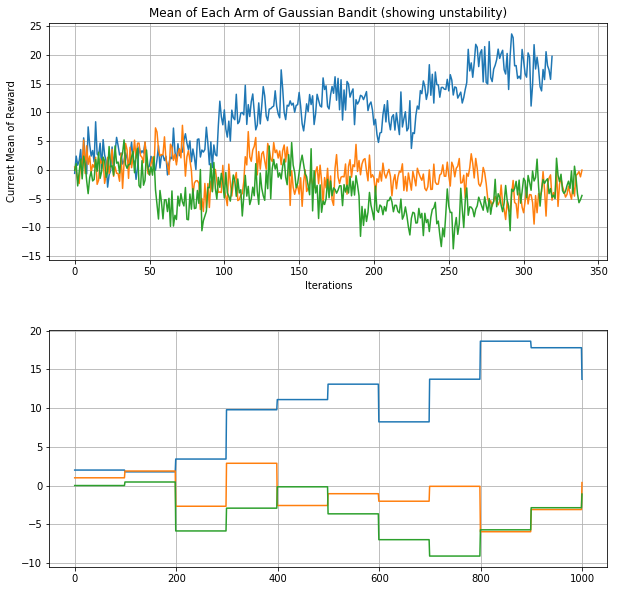
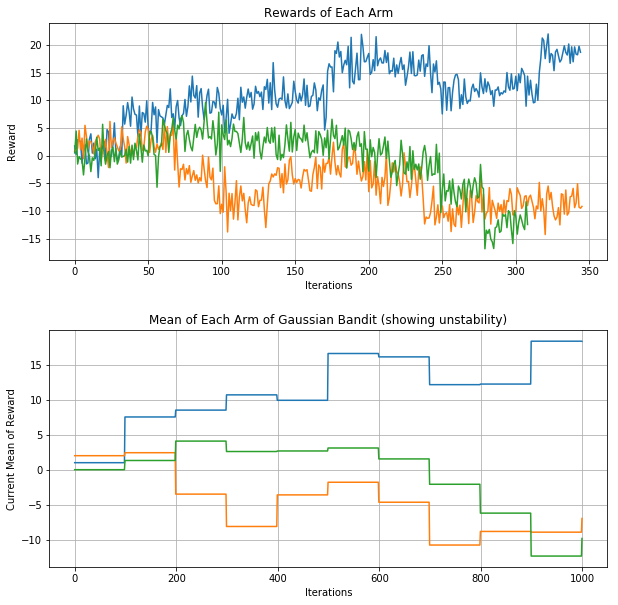
fix bug

diff --git a/multi_armed_bandit/test_bandit.py b/multi_armed_bandit/test_bandit.py
@@ -35,6 +35,7 @@ if __name__ == "__main__":
     
     # show the change of means of each arm reward 
     # when bandit is unstable
+    # reward each time the corresponding arm is selected
     fig = plt.figure(figsize=(10,10))
     ax1 = fig.add_subplot(211)
     ax2 = fig.add_subplot(212)
@@ -46,11 +47,12 @@ if __name__ == "__main__":
     ax1.set_title('Rewards of Each Arm')
     ax1.set_xlabel('Iterations')
     ax1.set_ylabel('Reward')
+    # reward mean change curve
     ax2.plot(cntr0)
     ax2.plot(cntr1)
     ax2.plot(cntr2)
     ax2.grid()
-    ax1.set_title('Mean of Each Arm of Gaussian Bandit (showing unstability)')
-    ax1.set_xlabel('Iterations')
-    ax1.set_ylabel('Current Mean of Reward')
+    ax2.set_title('Mean of Each Arm of Gaussian Bandit (showing unstability)')
+    ax2.set_xlabel('Iterations')
+    ax2.set_ylabel('Current Mean of Reward')
     plt.show()
